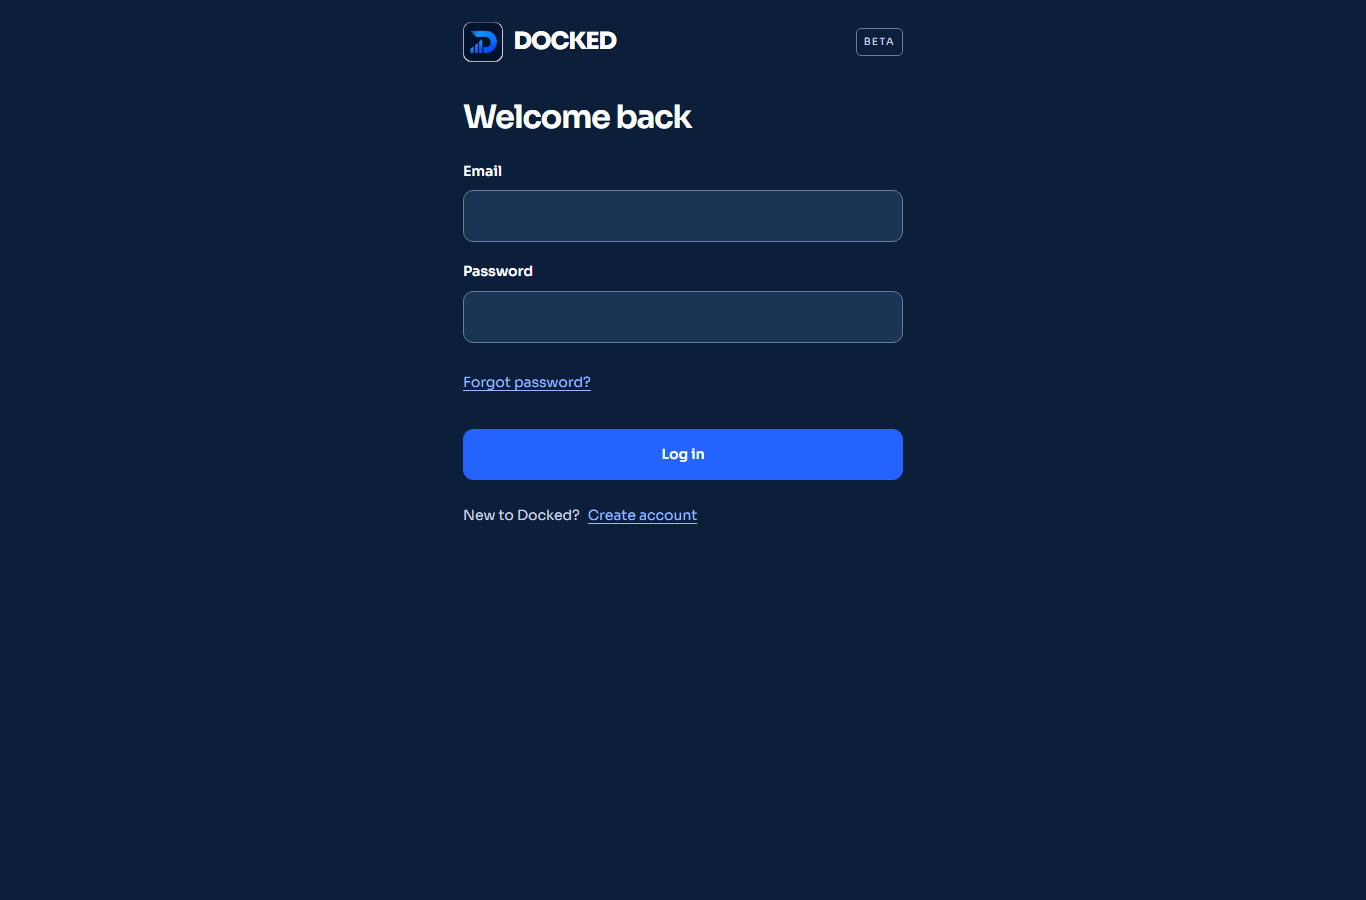
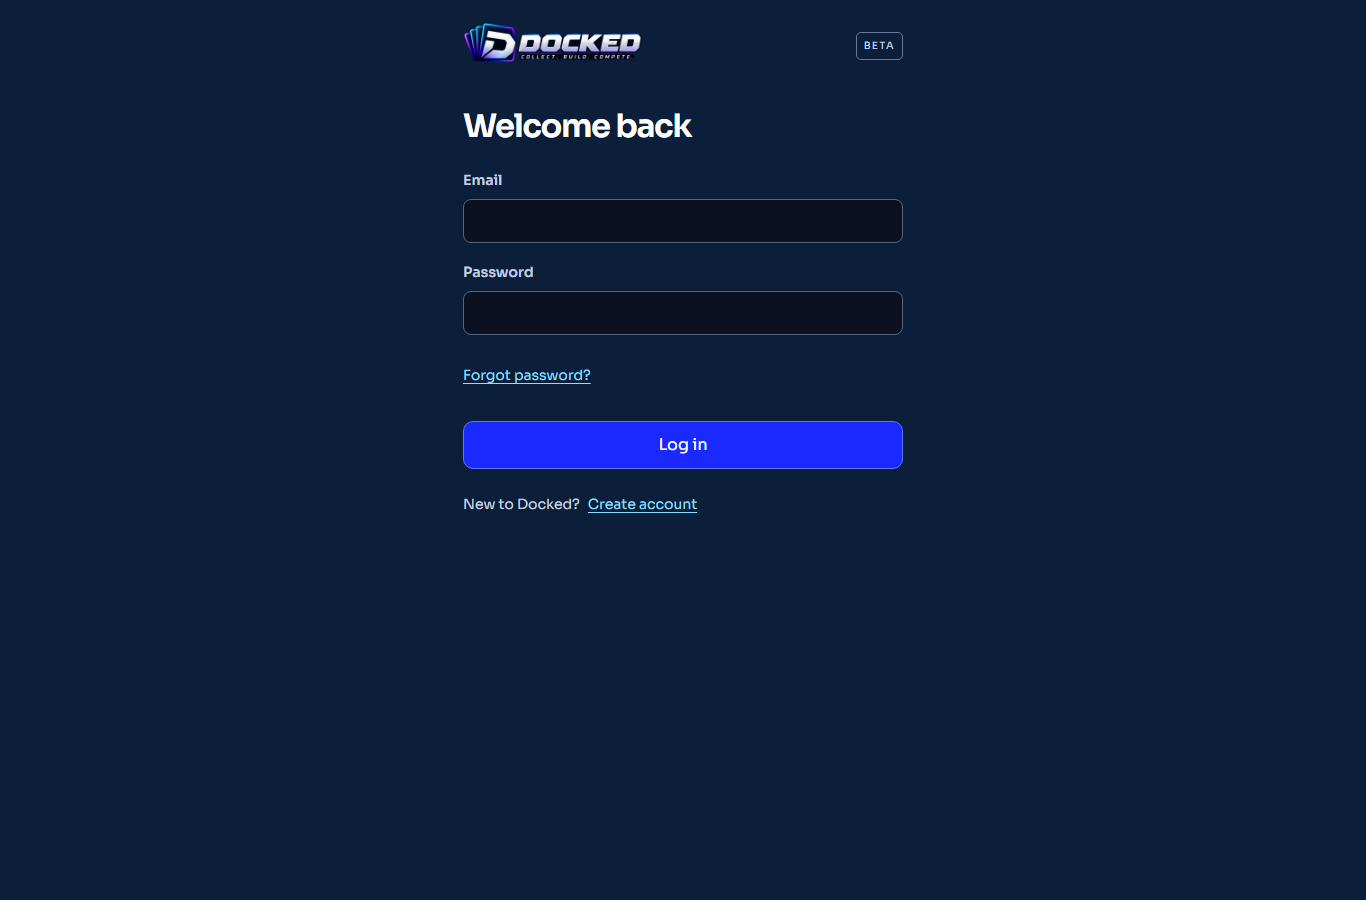
Record Fantasy owner setup Preview checks and confirmed invitation delivery

diff --git a/docs/DOCKED-OWNER-ONBOARDING-FIX.md b/docs/DOCKED-OWNER-ONBOARDING-FIX.md
@@ -9,3 +9,14 @@ The fix separates Fantasy presentation from gameplay authorization. Verified iso
 No database migration, grant, region-policy approval, gameplay activation, session creation, password change, MFA enrollment or email is performed by this fix. The owner must personally sign in and enroll/verify MFA. Onboarding preferences remain deferred until the applicable gameplay/community acceptance gates pass; they are not falsely marked complete.
 
 Validation before deployment:15 focused regression tests, TypeScript and changed-source lint. The regression confirms Fantasy presentation stays active while the gameplay capability is false and rejects wrong project/production environment bindings. Hosted owner-session acceptance still requires the owner's own browser; no credentials or MFA seeds are collected by the agent. Preserve the old deployment and holding page for rollback.
+
+## Protected release evidence
+
+Application commit: `9cfddee390b8ebc9716b604d30cde49995dae947`.
+Deployment: `dpl_vcRdRDfrqAHPQgZBvvK2mhcRMVyP`, READY, explicit Preview target, no aliases/custom domains. URL: https://docked-production-24ts2fdje-briant-s-projects.vercel.app
+
+All12 hosted checks passed on9October at11:17UTC: owner/onboarding routes redirect unauthenticated requests to login, Fantasy login branding, invitation and cross-origin denials, closed public signup, setup session requirement, un-enrolled MFA UI, approved policies and390px/1366px layout checks. Next.js streams the login redirect inside an HTTP200 response; the test checks the exact redirect and absence of owner content rather than treating200 as authenticated access. The first307-only test assumption failed and was corrected without changing application authorization. No positive owner-session or MFA test is claimed.
+
+The536-file export scan passed with no known-secret matches. Independent Vercel readback confirmed the exact project/team/branch/commit and Preview protection. The apex holding-page content hash and www redirect match the previous release. All email switches remain OFF. No Auth Site URL or email-hook callback changes were made for this release; any later recovery test must review/bind its exact callback before separate send approval. Password login and MFA do not require a new invitation or callback change.
+
+Next owner action: open `/app/login` on this new deployment and sign in with the password already created. `/app` now leads to owner setup rather than the old preferences wizard. Follow the MFA link; the owner personally copies the authenticator secret into their authenticator, then enters Factor ID and the current six-digit code in the verification form. Successful MFA returns to the owner setup status. No administrator role is granted by the UI.

diff --git a/docs/DOCKED-OWNER-ACCEPTANCE-STATUS.md b/docs/DOCKED-OWNER-ACCEPTANCE-STATUS.md
@@ -1,5 +1,7 @@
 # Owner acceptance — invitation accepted; waiting for personal confirmation
 
+**Owner follow-up and onboarding fix:** Inbox receipt and password creation are now owner-confirmed. Required private admission/profile setup persisted. The optional old Edge wizard failed because its community gate is intentionally closed during owner authentication. [The fix and deployment evidence](DOCKED-OWNER-ONBOARDING-FIX.md) separate Fantasy branding from gameplay permission and route to MFA setup. Latest protected deployment: `dpl_vcRdRDfrqAHPQgZBvvK2mhcRMVyP`, application `9cfddee3`. MFA, recovery and positive gameplay remain pending; no additional email was sent.
+
 **Subsequent readback:** The sole designated owner account became email-confirmed at10:59:20UTC, with a sign-in recorded at the same time. No verified MFA factor exists. The agent did not follow the invitation or confirm the account. Ask the owner to confirm Inbox receipt and their browser step before attributing the confirmation to personal acceptance. Delivery and MFA are not yet claimed.
 
 **Latest result, 9 October 2026, 21:58 Sydney:** After fresh explicit owner approval, one Auth invitation returned200 and created the sole unconfirmed support@docked.com.au account. One signed Graph submission returned202; its queue record is accepted with attempts1. Sending was disabled immediately afterward and read back OFF. No pending jobs, MFA factors or beta administrator roles exist; testers and public signup remain closed. Inbox delivery, account confirmation, password recovery, AAL2 and gameplay acceptance are still unverified. See `qa/owner-acceptance/quota-recovery-invitation.json`. Earlier rate-limit failures below are historical, not the current blocker.
